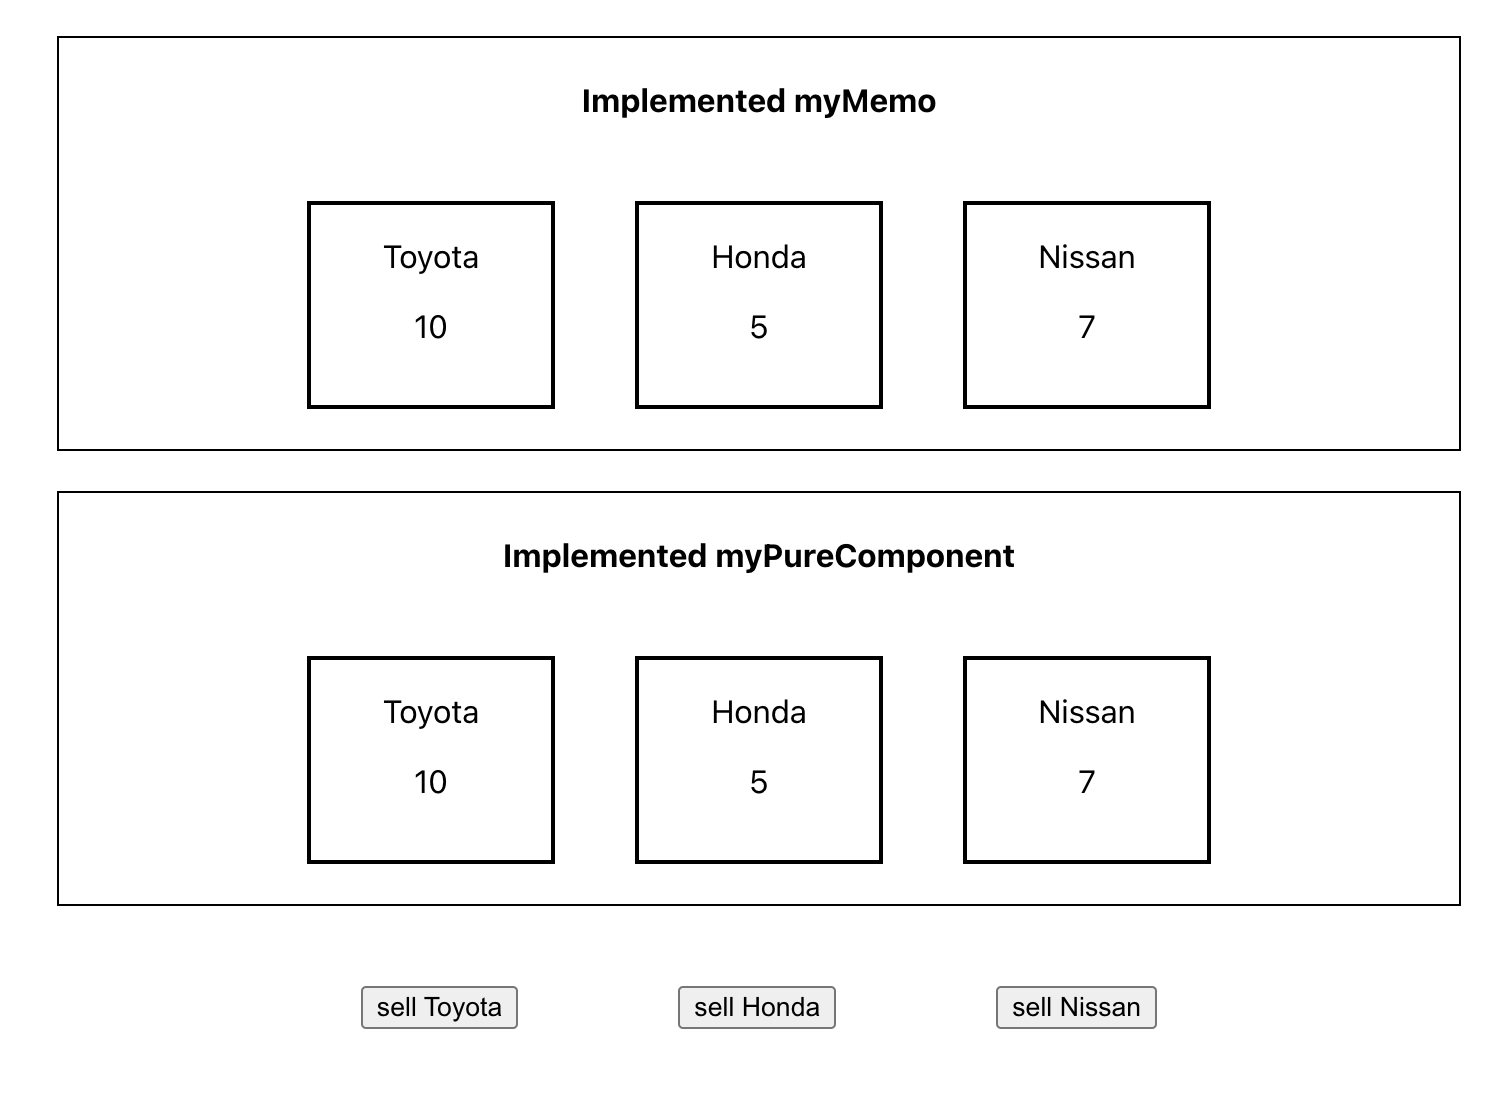
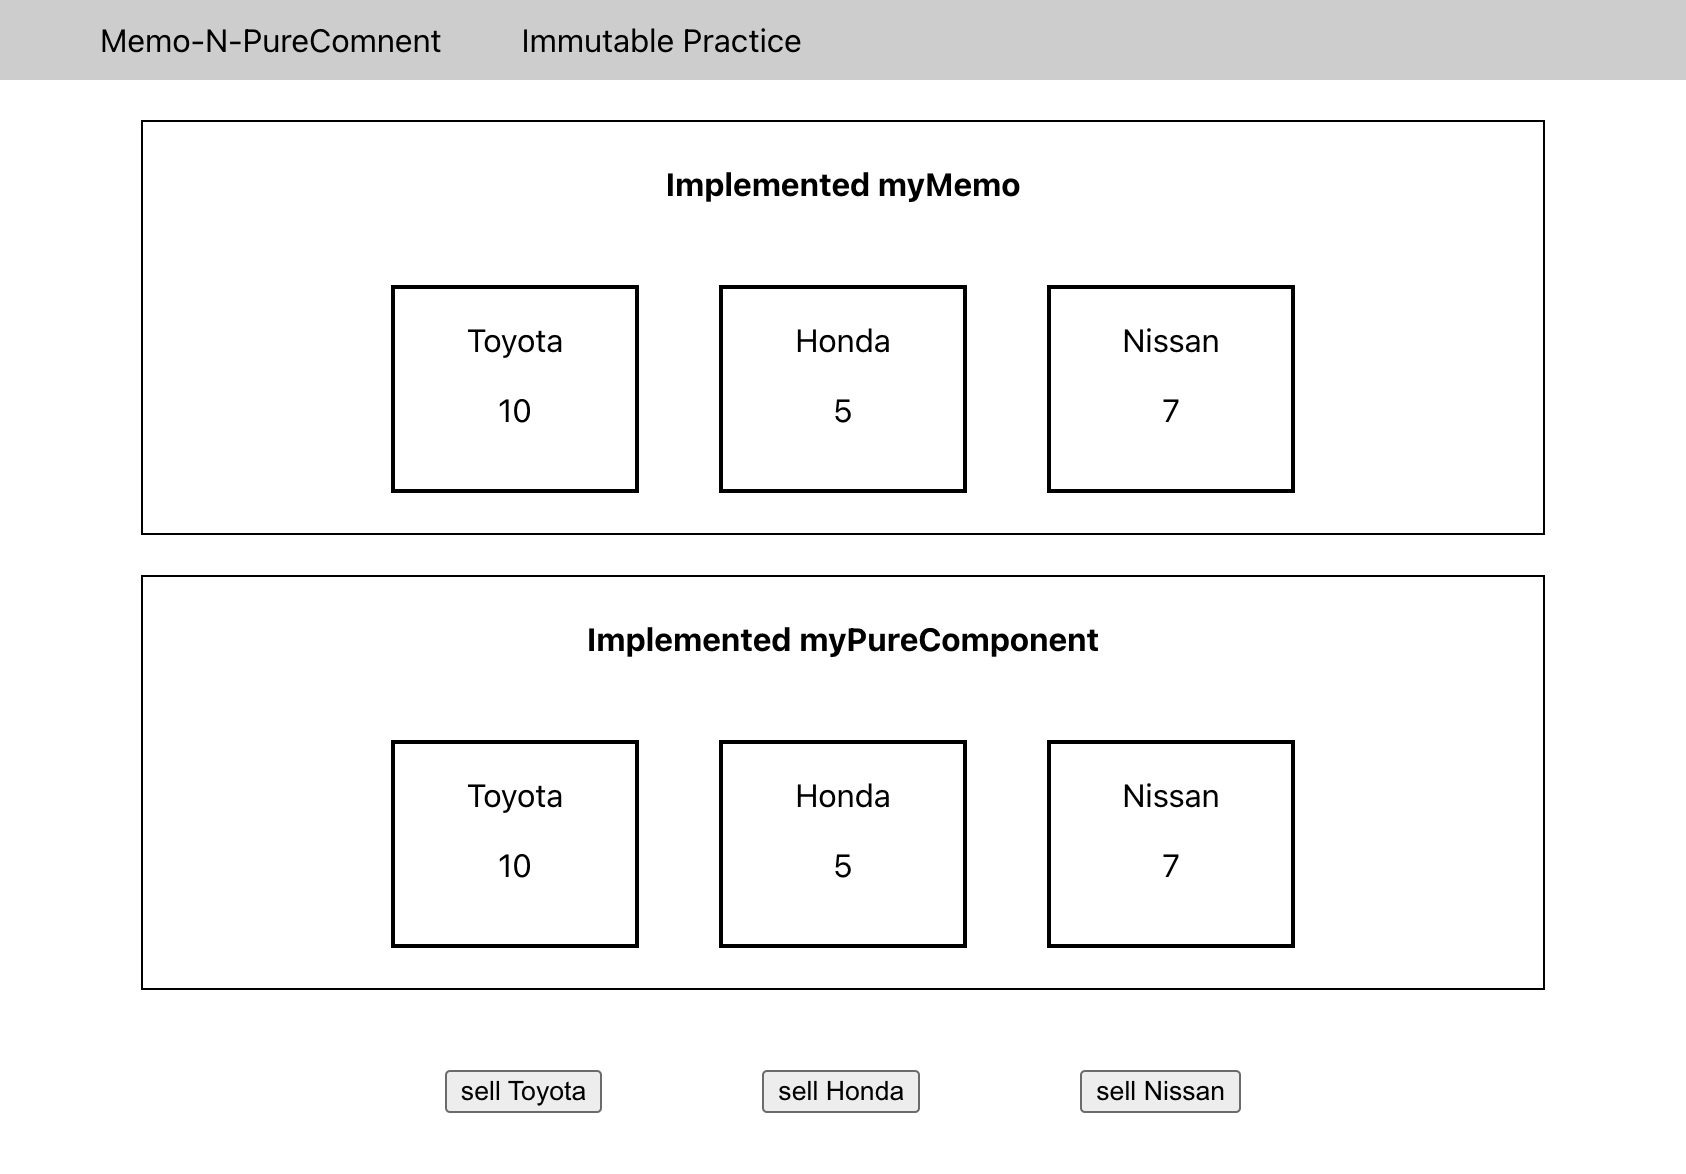
add immutable practice

diff --git a/src/components/Practice/Practice.js b/src/components/Practice/Practice.js
@@ -1,0 +1,95 @@
+import React, { useEffect, useState } from 'react'
+
+const origin_state = {
+    "id": "001",
+    "type": "A",
+    "value": "aaaaa",
+    "data:": {},
+    "path": ["001"],
+    "children": [
+        {
+            "id": "003",
+            "type": "A",
+            "value": "aaaaa",
+            "data:": {},
+            "path": ["001", "003"],
+            "children": [
+                {
+                    "id": "002",
+                    "type": "A",
+                    "value": "aaaaa",
+                    "data:": {},
+                    "path": ["001", "003", "002"],
+                    "children": []
+                },
+            ]
+        },
+        {
+            "id": "004",
+            "type": "A",
+            "value": "aaaaa",
+            "data:": {},
+            "path": ["001", "004"],
+            "children": [
+                {
+                    "id": "005",
+                    "type": "A",
+                    "value": "aaaaa",
+                    "data:": {},
+                    "path": ["001", "004", "005"],
+                    "children": []
+                },{
+                    "id": "005",
+                    "type": "A",
+                    "value": "aaaaa",
+                    "data:": {},
+                    "path": ["001", "004", "005"],
+                    "children": [
+                        {
+                            "id": "002",
+                            "type": "A",
+                            "value": "aaaaa",
+                            "data:": {},
+                            "path": ["001", "004", "005", "002"],
+                            "children": []
+                        }
+                    ]
+                }
+            ]
+        }
+    ]
+};
+
+const deepCopy = (obj) => {
+    if (typeof obj !== 'object' || obj === null){
+        return obj;
+    }
+    let copy = Array.isArray(obj) ? [] : {};
+    for (let key in obj) {
+        copy[key] = deepCopy(obj[key]);
+    }
+
+    return copy
+};
+
+export const Practice = () => {
+    const [state, setState] = useState(origin_state);
+
+    const handelClick = () => {
+        const newState = deepCopy(state);
+        newState.children[0].children[0].path[1] = '004';
+        newState.children[1].children[1].children[0].path[2] = '006';
+        setState(newState);
+    };
+
+    return (
+        <div>
+            <p>origin_state.children[0].children[0].path[1]: {origin_state.children[0].children[0].path[1]}</p>
+            <p>origin_state.children[1].children[1].children[0].path[2]: {origin_state.children[1].children[1].children[0].path[2]}</p>
+            <p>==================================</p>
+            <p>state.children[0].children[0].path[1]: {state.children[0].children[0].path[1]}</p>
+            <p>state.children[1].children[1].children[0].path[2]: {state.children[1].children[1].children[0].path[2]}</p>
+            <button type="" onClick={handelClick}>Update State Immutably</button>
+        </div>
+    );
+};

diff --git a/src/App.js b/src/App.js
@@ -1,11 +1,39 @@
+import { useEffect, useState } from 'react';
 import './App.css';
-import CarsApp from './components/CarsApp';
+import CarsApp from './components/CarsApp/CarsApp';
+import Layout from './components/Layout/Layout';
+import { Practice } from './components/Practice/Practice';
 
 
 function App() {
+  const [activePage, setActivePage] = useState('MemoNPure');
+  const [content, setContent] = useState(<CarsApp/>)
+
+  const handleChangeActivePage = (newActivePage) => {
+    console.log('changing page...')
+    setActivePage(newActivePage);
+  };
+
+  useEffect(() => {
+    switch(activePage) {
+      case 'MemoNPure':
+        console.log('M')
+        setContent(<CarsApp />)
+        break;
+      case 'Practice':
+        console.log('P')
+        setContent(<Practice />)
+        break;
+      default:
+        break;
+    }
+  }, [activePage])
+
   return (
     <div className="App">
-      <CarsApp />
+      <Layout handleChangeActivePage={handleChangeActivePage}>
+        {content}
+      </Layout>
     </div>
   );
 }

diff --git a/src/components/Header/Header.js b/src/components/Header/Header.js
@@ -1,0 +1,16 @@
+import React from 'react';
+import './Header.css';
+
+class Header extends React.Component{
+    render() {
+        const {handleChangeActivePage} = this.props;
+        return (
+            <ul className='nav-bar'>
+                <li onClick={() => handleChangeActivePage('MemoNPure')}>Memo-N-PureComnent</li>
+                <li onClick={() => handleChangeActivePage('Practice')}>Immutable Practice</li>
+            </ul>
+        );
+    }
+}
+
+export default Header;

diff --git a/src/components/Layout/Layout.js b/src/components/Layout/Layout.js
@@ -1,0 +1,19 @@
+import React from 'react';
+import Header from '../Header/Header';
+
+class Layout extends React.Component {
+    render() {
+        return (
+            <>
+                <header>
+                    <Header handleChangeActivePage={this.props.handleChangeActivePage}/>
+                </header>
+                <main>
+                    {this.props.children}
+                </main>
+            </>
+        );
+    }
+}
+
+export default Layout;

diff --git a/src/components/Header/Header.css b/src/components/Header/Header.css
@@ -1,0 +1,22 @@
+.nav-bar {
+    background-color: lightgray;
+    display: flex;
+    gap: 20px;
+    height: 40px;
+    align-items: center;
+    margin-top: 0;
+}
+
+li {
+    list-style: none;
+    height: inherit;
+    display: flex;
+    align-items: center;
+    padding-left: 10px;
+    padding-right: 10px;
+}
+
+li:hover {
+    cursor: pointer;
+    background-color: gray;
+}

diff --git a/src/components/CarsApp/CarWithPure.js b/src/components/CarsApp/CarWithPure.js
@@ -1,6 +1,6 @@
 import React from 'react'
 import './CarsApp.css';
-import myPureComponent from '../shared/myPureComponent';
+import myPureComponent from '../../shared/myPureComponent';
 
 class CarWithPure extends myPureComponent {
 

diff --git a/src/components/CarsApp/CarWithMemo.js b/src/components/CarsApp/CarWithMemo.js
@@ -1,6 +1,6 @@
 import React from 'react'
 import './CarsApp.css';
-import { myMemo } from '../hoc/myMemo';
+import { myMemo } from '../../hoc/myMemo';
 
 class CarWithMemo extends React.Component {
 
